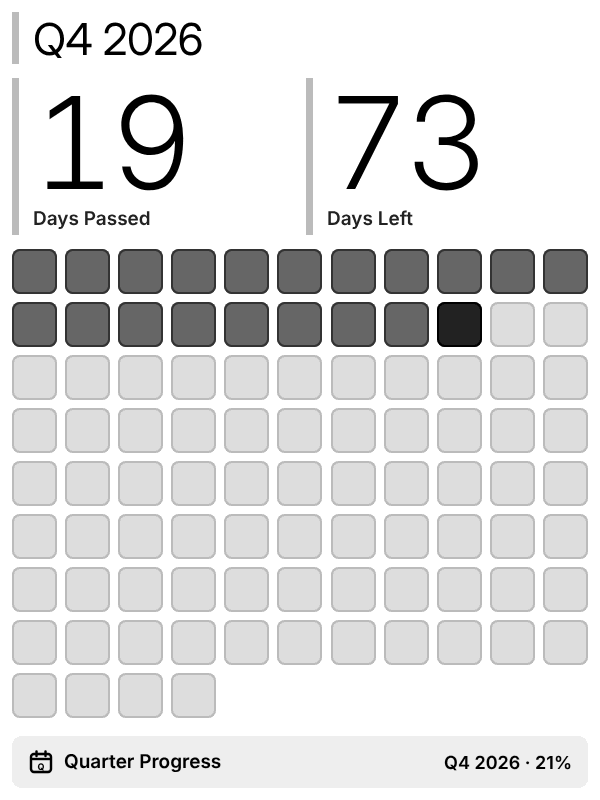
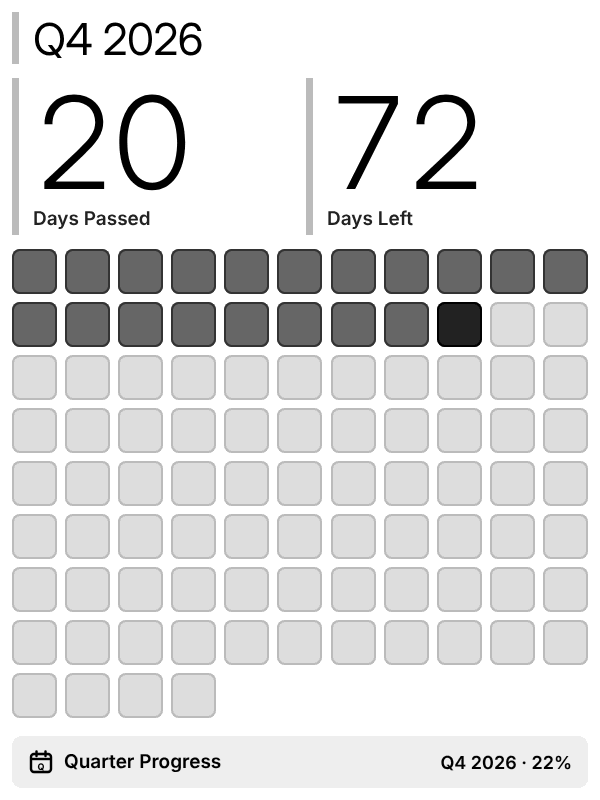
Quarter Progress: count today as a day passed
20 October now reads 20 passed, 72 left, 22% (was 19 / 73 / 21%). Today's square
is still drawn darkest.

Claude-Session: https://claude.ai/code/session_01GcKyYFsaBsPuGYxqe3XuTx

diff --git a/plugins/quarter_progress/fetch.py b/plugins/quarter_progress/fetch.py
@@ -43,12 +43,13 @@ def fetch(ctx):
     today = ctx.now.date()
     q, start, end, fy_end_year = _quarter(today, fy_start)
     total = (end - start).days + 1
-    passed = (today - start).days                    # whole days already behind you
+    day = (today - start).days + 1                   # today's position in the quarter (1-based)
+    passed = day                                     # today counts as passed
     label = f"Q{q} {start.year}" if fy_start == 1 else f"Q{q} FY{str(fy_end_year)[-2:]}"
 
     screen_w = ctx.cfg["screen"]["width"]
     cols, size = _grid(total, screen_w - 2 * PAD, ctx.cfg["screen"]["height"] - CHROME)
-    days = ["past"] * passed + ["today"] + ["future"] * (total - passed - 1)
+    days = ["past"] * (day - 1) + ["today"] + ["future"] * (total - day)
     return {
         "available": True,
         "quarter": label,
